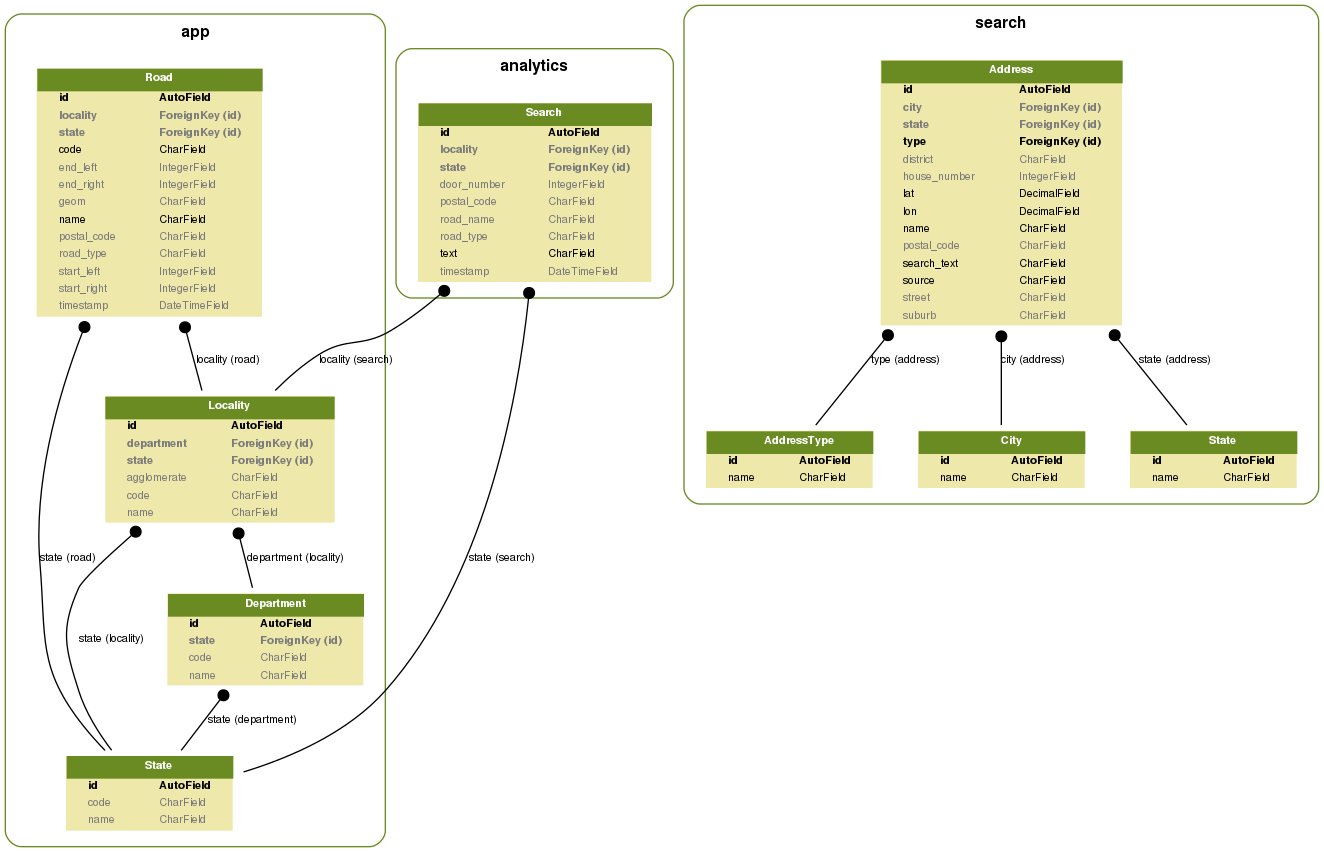
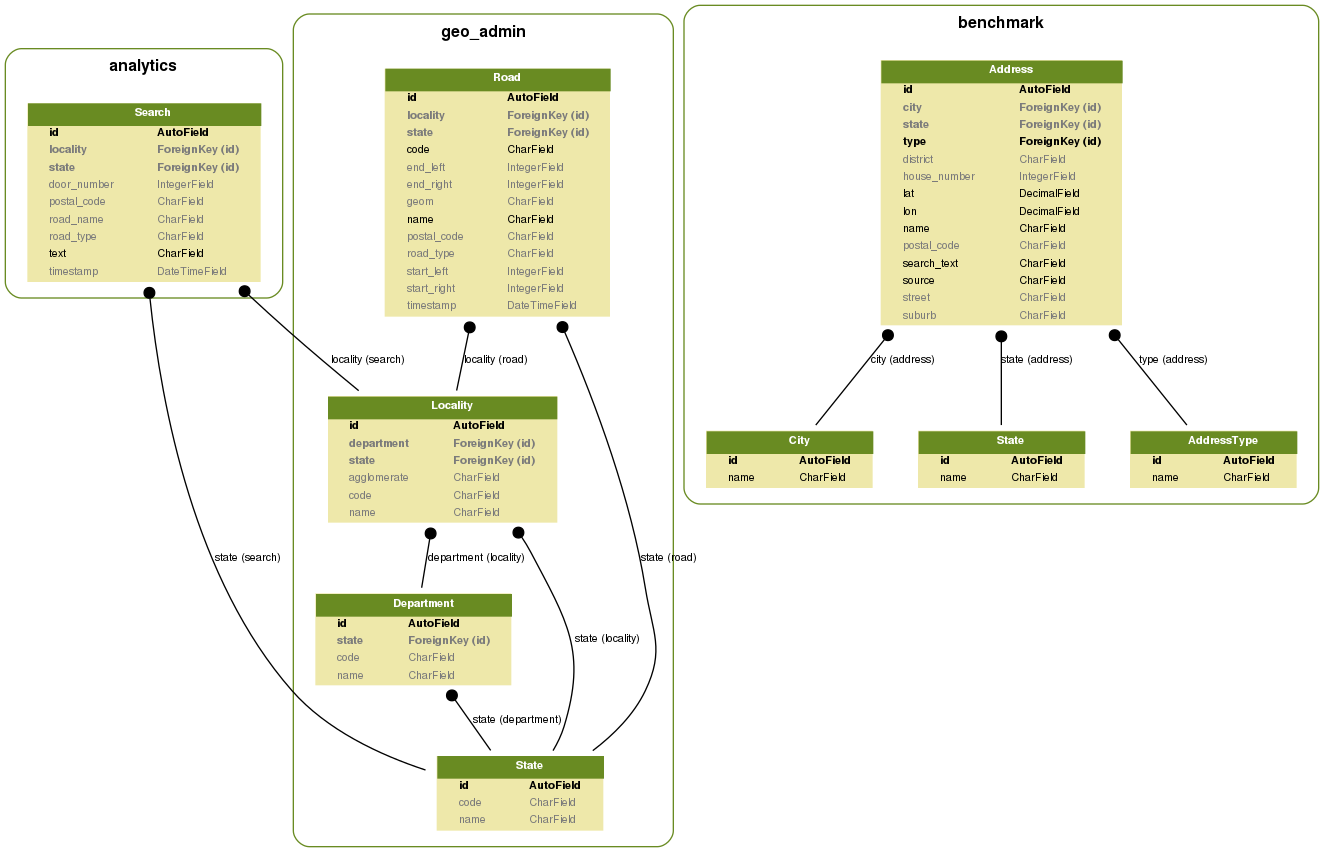
Corrige nombre de aplicaciones en referencias entre componentes.

diff --git a/benchmark/views.py b/benchmark/views.py
@@ -1,7 +1,7 @@
 from django.http import HttpResponse
 from django.shortcuts import render, redirect
 from django.views.decorators.csrf import csrf_exempt
-from search.wrappers import GeorefWrapper, HereWrapper, NominatimWrapper
+from benchmark.wrappers import GeorefWrapper, HereWrapper, NominatimWrapper
 import json
 
 

diff --git a/benchmark/tests.py b/benchmark/tests.py
@@ -3,8 +3,8 @@
 """Tests de la aplicación Search."""
 
 from django.test import TestCase
-from search.models import *
-from search.wrappers import HereWrapper, NominatimWrapper
+from benchmark.models import *
+from benchmark.wrappers import HereWrapper, NominatimWrapper
 
 
 class HereAPITest(TestCase):

diff --git a/georef/urls.py b/georef/urls.py
@@ -18,6 +18,6 @@ from django.contrib import admin
 
 
 urlpatterns = [
-    url(r'^', include('search.urls')),
+    url(r'^', include('benchmark.urls')),
     url(r'^admin/', admin.site.urls),
 ]

diff --git a/benchmark/wrappers.py b/benchmark/wrappers.py
@@ -1,5 +1,5 @@
 # -*- coding: utf-8 -*-
-from search.models import *
+from benchmark.models import *
 from georef.settings import API_URL
 from urllib import parse, request
 import requests

diff --git a/analytics/models.py b/analytics/models.py
@@ -1,5 +1,5 @@
 from django.db import models
-from app.models import Locality, State
+from geo_admin.models import Locality, State
 
 
 class Search(models.Model):

diff --git a/benchmark/admin.py b/benchmark/admin.py
@@ -1,5 +1,5 @@
 from django.contrib import admin
-from search.models import *
+from benchmark.models import *
 
 
 admin.site.register(Address)
